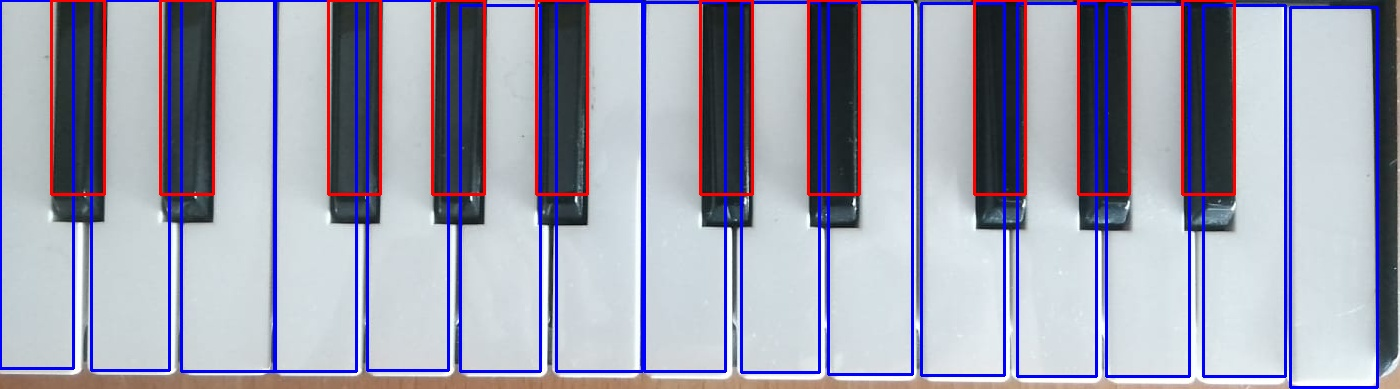
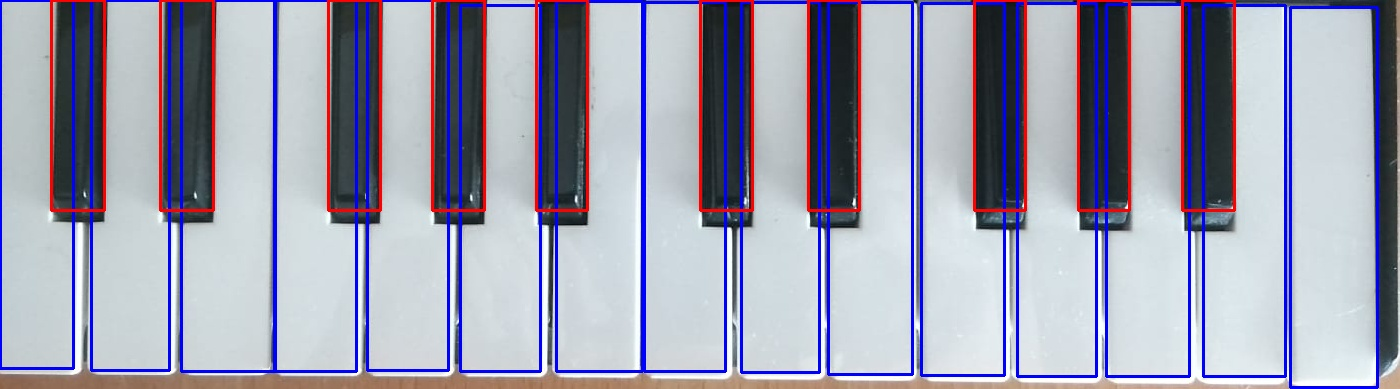
fixed bottom of blakc keys

diff --git a/src/img_proc.py b/src/img_proc.py
@@ -66,28 +66,32 @@ class ImgProc:
         valid_contours = [contour for contour in contours if cv2.contourArea(contour) > min_contour_area]
 
         white_keys = []
-        maxX = 0
-        maxY = 0
-        minX = float("inf")
-        minY = float("inf")
         for contour in valid_contours:
             x, y, w, h = cv2.boundingRect(contour)
             white_keys.append((x,y,w,h)) 
-            if x > maxX: maxX = x+w
-            if x < minX : minX = x
-            if y > maxY: maxY = y+h
-            if y < minY : minY = y
-
             cv2.rectangle(img, (x, y), (x + w, y + h), (255, 0, 0), 2)
         
-        #cv2.rectangle(img,(minX,minY),(maxX,maxY),(255,0,0),2)
 
         #detect black keys
         _,thresh = cv2.threshold(img2,127,255,cv2.THRESH_BINARY)
         opned = cv2.morphologyEx(thresh, cv2.MORPH_OPEN, kernel= np.ones((13, 13), np.uint8))
         closed = cv2.morphologyEx(opned, cv2.MORPH_CLOSE, kernel= np.ones((7, 7), np.uint8))
         edges = cv2.Canny(closed,50,150)
+        lines = cv2.HoughLines(edges,1,np.pi/180,75)
         cv2.imwrite('img/results/edges.jpg',edges)
+
+        hor_lines = []
+        if lines is not None:
+            for i in range(0, len(lines)):
+                theta = lines[i][0][1]
+                if not (theta > 1 and theta < 2): continue
+                hor_lines.append(lines[i])
+        
+        final_line = float('inf')
+        for line in hor_lines:
+            value = line[0][0]
+            if value> img_center[1] and value < final_line: final_line = value
+        
         
         points = []
         for i in range(len(edges[int(img_center[1])])):
@@ -99,31 +103,15 @@ class ImgProc:
         left = left[len(left)-10:10]
         right = right[0:10]
 
-        print(left,right)
 
+        black_keys= []
         for i in range(len(left)//2):
-            cv2.rectangle(img, (int(left[2*i]), 0), (int(left[2*i+1]), int(img_center[1])), (0, 0, 255), 2)
-            #cv2.circle(img, (int(i),int(img_center[1])), 5, (0, 0, 255), -1)
-            #cv2.circle(img, (int(i),0), 5, (0, 0, 255), -1)
+            cv2.rectangle(img, (int(left[2*i]), 0), (int(left[2*i+1]), int(final_line)), (0, 0, 255), 2)
+            black_keys.append((int(left[2*i]), 0,int(left[2*i+1])-int(left[2*i]),int(final_line)))
         
         for i in range(len(right)//2):
-            cv2.rectangle(img, (int(right[2*i]), 0), (int(right[2*i+1]), int(img_center[1])), (0, 0, 255), 2)
-
-        contours, _ = cv2.findContours(edges.copy(), cv2.RETR_EXTERNAL, cv2.CHAIN_APPROX_SIMPLE)
-
-
-        black_keys = []
-
-        for contour in contours:
-            epsilon = 0.02 * cv2.arcLength(contour, True)
-            approx = cv2.approxPolyDP(contour, epsilon, True)
-            
-            x, y, w, h = cv2.boundingRect(approx)
-            #x +=50
-            #y +=50
-            black_keys.append((x,y,w,h))
-            
-            #cv2.rectangle(img, (x, y), (x + w, y + h), (0, 255, 0), 2)
+            cv2.rectangle(img, (int(right[2*i]), 0), (int(right[2*i+1]),int(final_line)), (0, 0, 255), 2)
+            black_keys.append((int(right[2*i]), 0,int(right[2*i+1])-int(right[2*i]),int(final_line)))
 
         cv2.imwrite(dest_img_path,img)
 

diff --git a/src/main.py b/src/main.py
@@ -5,7 +5,7 @@ def main():
     # ImgProc.crop_img('img/pressedkeyboard.png',hull)
     ImgProc.find_piano('img/keyboard_exemples/kbd1.jpeg')
     black_kesy, white_keys = ImgProc.find_keys('img/results/cropped_keyboard.jpg')
-    # print(black_kesy, white_keys)
+    #print(black_kesy, white_keys)
 
 
 if __name__ == "__main__":
